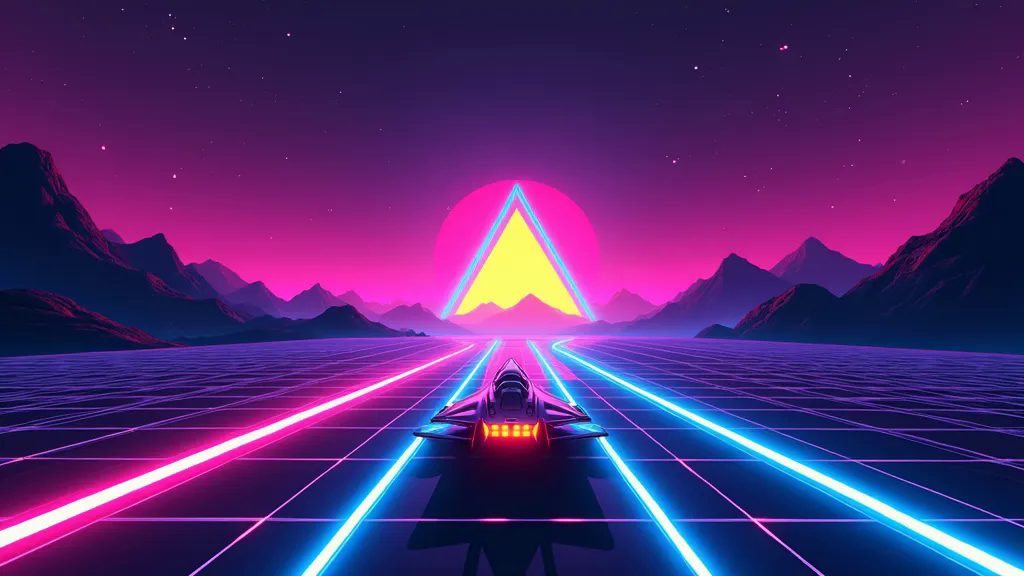
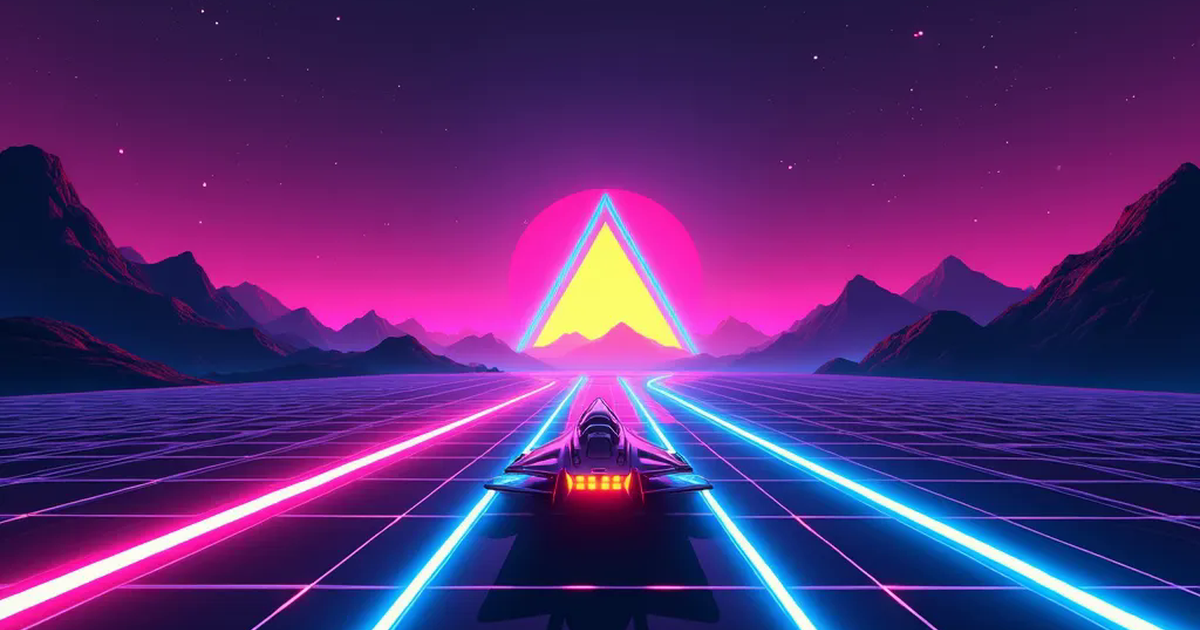
Open Graph : image 1200 x 630 et metadonnees completes

diff --git a/index.html b/index.html
@@ -10,13 +10,17 @@
     <meta property="og:type" content="website" />
     <meta property="og:title" content="Cavalier Synthwave : course rythmique synthwave pseudo-3D" />
     <meta property="og:description" content="Esquive les barrières, collecte les gemmes et atteins 2400 m sur une piste synthwave à 120 BPM. Gratuit, sans inscription, 100% navigateur." />
-    <meta property="og:image" content="https://games.hylst.fr/synthrider/og-image.png" />
+    <meta property="og:image" content="https://games.hylst.fr/synthrider/og-image.png?v=2" />
+    <meta property="og:image:type" content="image/png" />
+    <meta property="og:image:width" content="1200" />
+    <meta property="og:image:height" content="630" />
+    <meta property="og:image:alt" content="Cavalier Synthwave" />
     <meta property="og:url" content="https://games.hylst.fr/synthrider/" />
     <meta property="og:site_name" content="Hylst.Games" />
     <meta name="twitter:card" content="summary_large_image" />
     <meta name="twitter:title" content="Cavalier Synthwave : course rythmique synthwave pseudo-3D" />
     <meta name="twitter:description" content="Esquive les barrières, collecte les gemmes et atteins 2400 m sur une piste synthwave à 120 BPM." />
-    <meta name="twitter:image" content="https://games.hylst.fr/synthrider/og-image.png" />
+    <meta name="twitter:image" content="https://games.hylst.fr/synthrider/og-image.png?v=2" />
     <meta name="robots" content="index, follow" />
     <link rel="canonical" href="https://games.hylst.fr/synthrider/" />
     <link rel="icon" type="image/webp" href="favicon.webp" />
